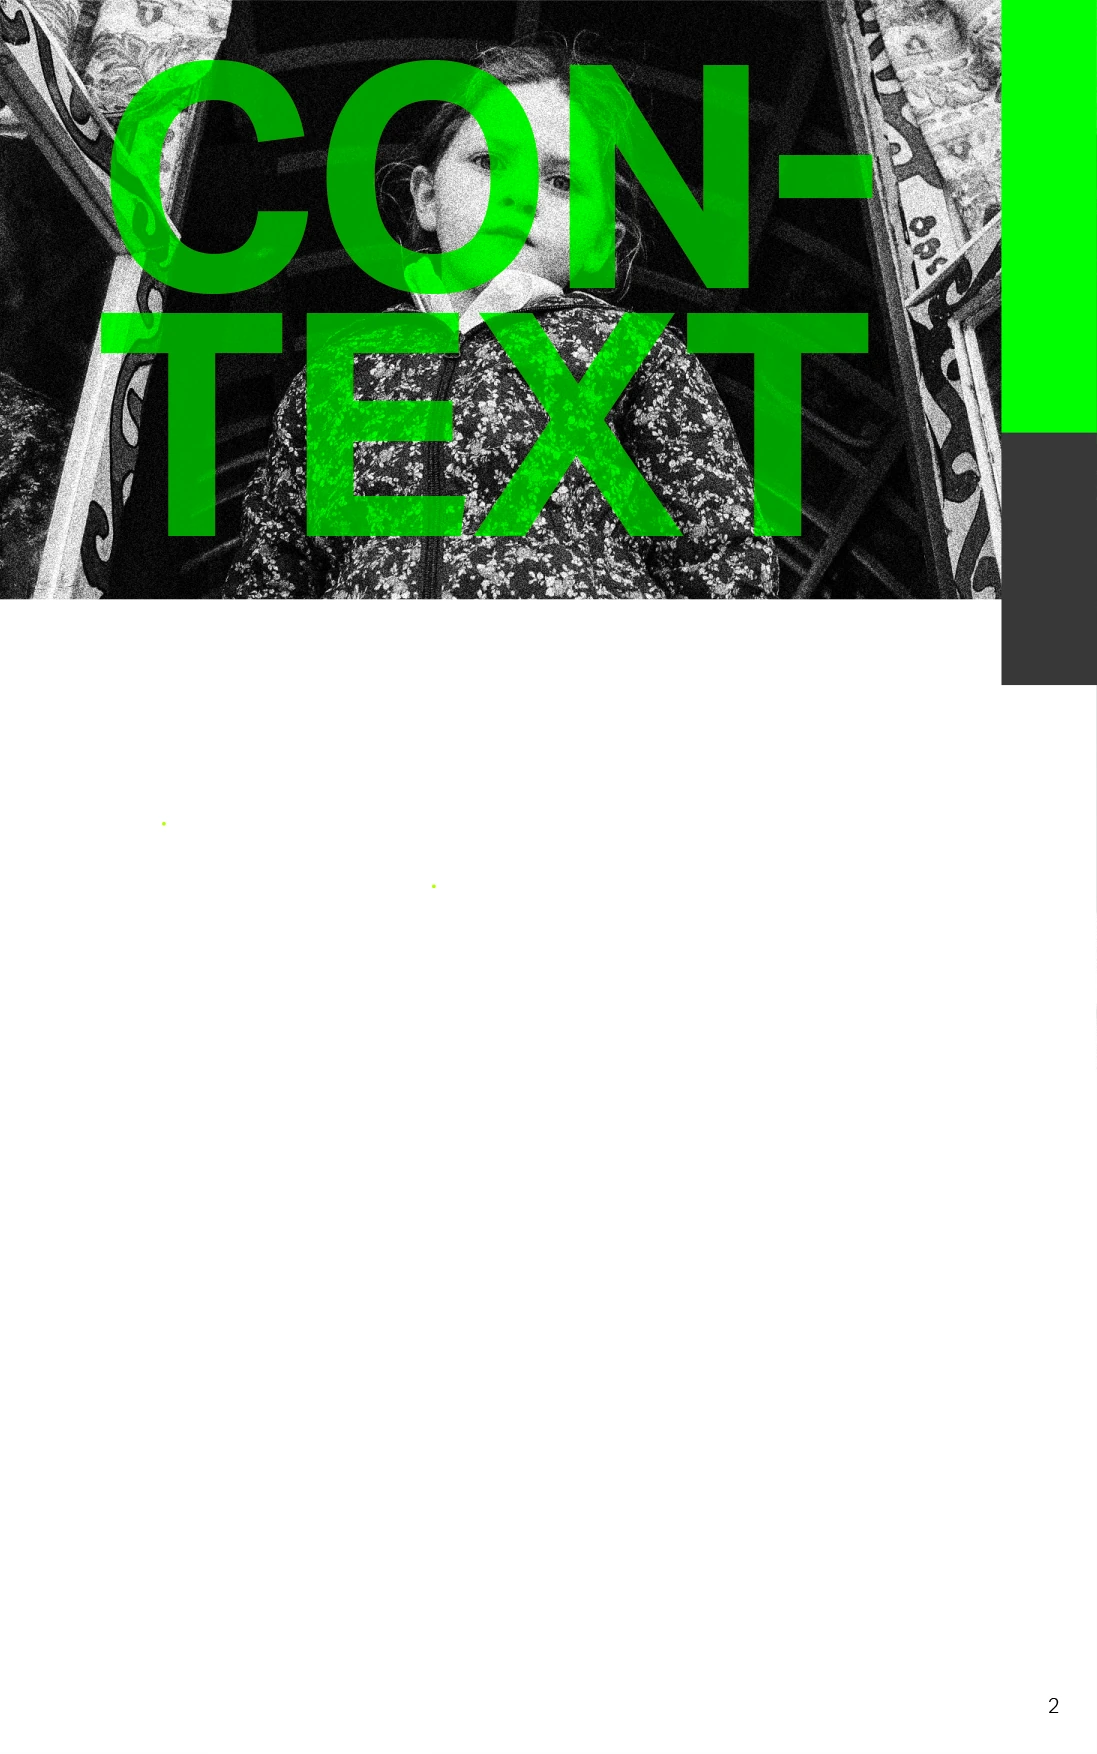
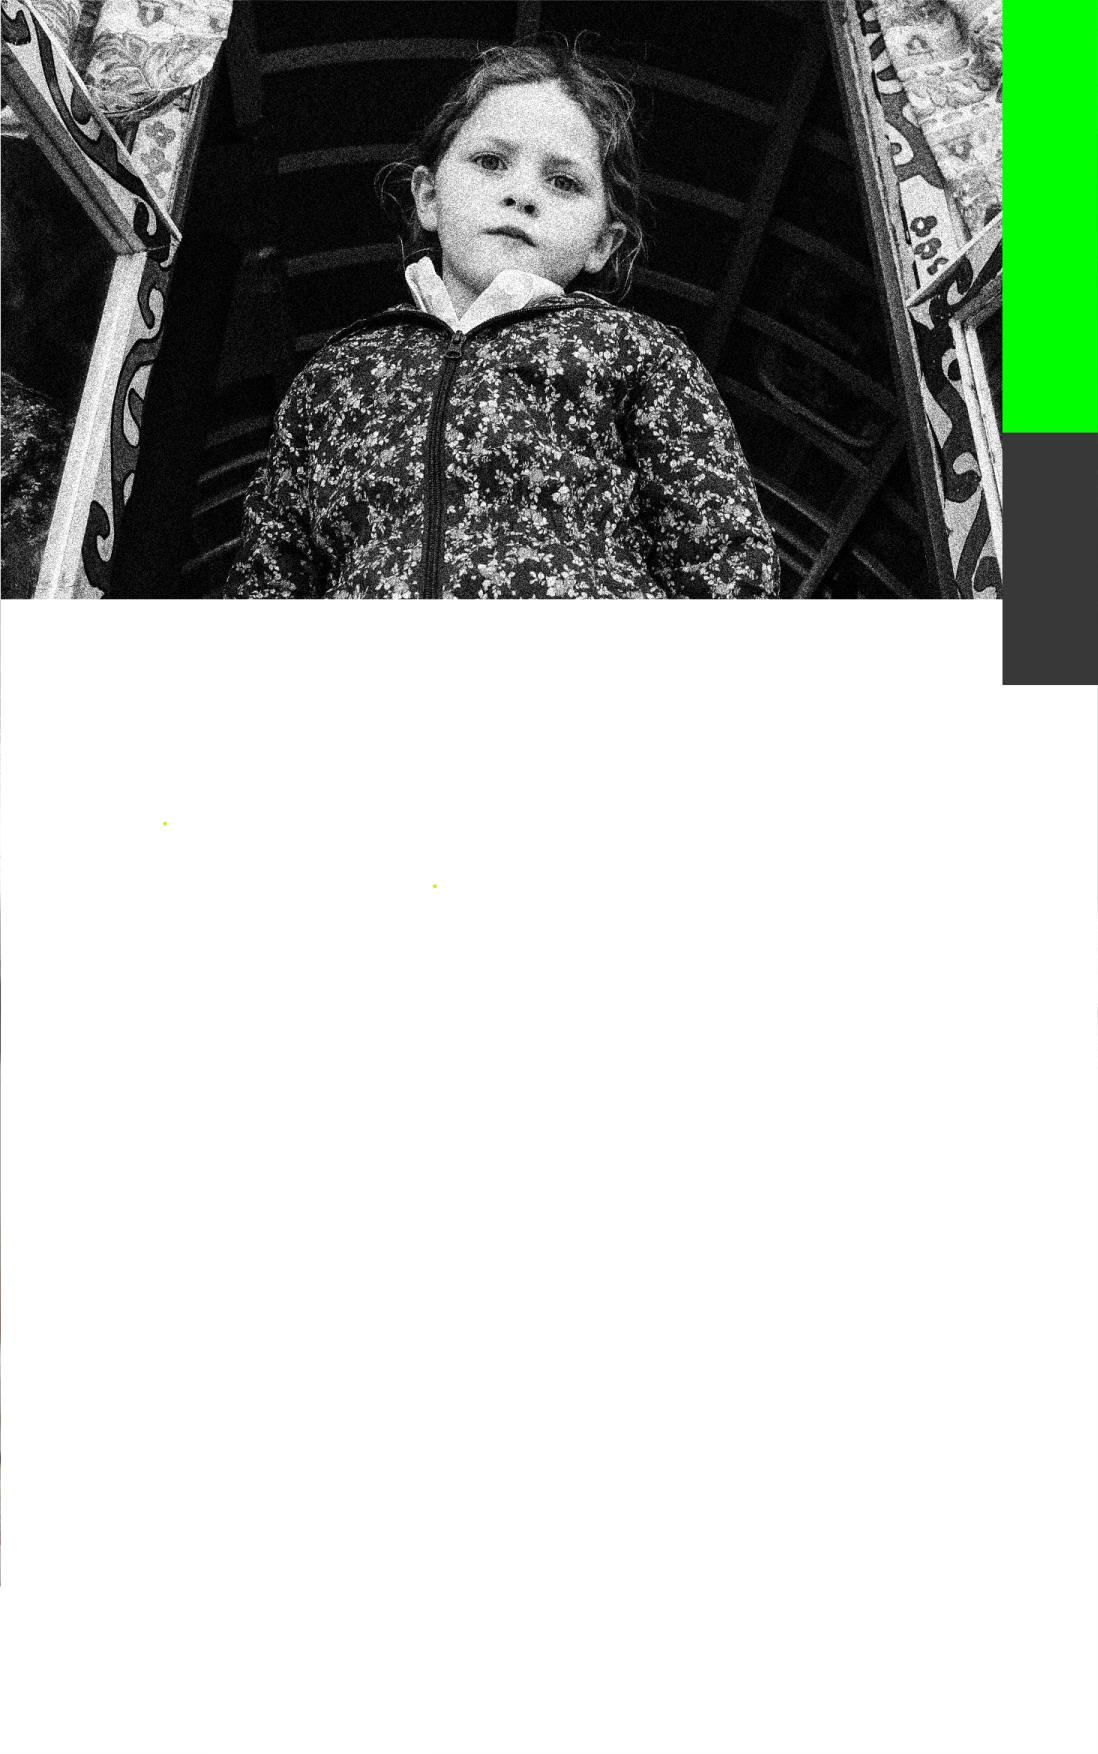
Changed bookmarks order, changed titles in for parents and for teachers, changed text in foreword

Changed region(s): [[0.0, 0.0, 0.8058, 0.3387], [0.7129, 0.0616, 0.8058, 0.1231]]

diff --git a/components/Book.jsx b/components/Book.jsx
@@ -49,11 +49,18 @@ const Book = ({
         category.toLowerCase() === bookmark.toLowerCase()
     );
 
-  const getProperBookmark = (cat) => 
-    bookmarks.filter(
+  const getProperBookmark = (cat) => {
+    const properBookmark = bookmarks.filter(
       ({ fields: { category } }) => 
         category.toLowerCase() === cat.toLowerCase()
-    )[0]?.fields;
+    )[0]?.fields
+    const indexOfProperBookmark = bookmarks.findIndex(({fields}) => fields === properBookmark)
+
+    return {
+      ...properBookmark,
+      index: indexOfProperBookmark
+    }
+  }
     
   return (
     <div
@@ -165,7 +172,7 @@ const Book = ({
                     pageIndex={pageIndex}
                     pageIndexStyle={pageIndexStyle}
                     pagesLength={pages.length}
-                    page={{ id, category }}
+                    page={{ category, heading }}
                     changePage={changePage}
                     changeCustomPage={changeCustomPage}
                     getIndexOfFirstBookmark={getIndexOfFirstBookmark}
@@ -180,7 +187,7 @@ const Book = ({
                     pageIndex={pageIndex}
                     pageIndexStyle={pageIndexStyle}
                     pagesLength={pages.length}
-                    page={{ id, category }}
+                    page={{ category, heading }}
                     changePage={changePage}
                     changeCustomPage={changeCustomPage}
                     getIndexOfFirstBookmark={getIndexOfFirstBookmark}
@@ -195,7 +202,7 @@ const Book = ({
                     pageIndex={pageIndex}
                     pageIndexStyle={pageIndexStyle}
                     pagesLength={pages.length}
-                    page={{ id, category }}
+                    page={{ category, heading }}
                     changePage={changePage}
                     changeCustomPage={changeCustomPage}
                     getIndexOfFirstBookmark={getIndexOfFirstBookmark}

diff --git a/components/ForTeachers.jsx b/components/ForTeachers.jsx
@@ -9,13 +9,14 @@ const ForTeachers = ({
   currentPage,
   pagesLength,
   pageIndexStyle,
-  page: { category },
+  page: { category, heading },
   changePage,
   changeCustomPage,
   getIndexOfFirstBookmark,
   bookmarkInfo,
 }) => {
   const [isAnimationFinished, setIsAnimationFinished] = useState(false);
+  console.log(heading);
 
   useEffect(() => {
     if (pageIndexStyle > currentPage) {
@@ -148,11 +149,10 @@ const ForTeachers = ({
             backgroundImage: 'url("/forewordRightPage.webp")',
           }}
         >
-          <div
-            style={{
-              marginTop: "230px",
-            }}
-          >
+          <div style={{height: '36%'}}>
+            <h2 className={style.contextTitle}>{heading}</h2>
+          </div>
+          <div>
             Lorem ipsum, dolor sit amet consectetur adipisicing elit. Harum, molestiae praesentium! Aut eligendi odit, delectus a repellendus libero accusamus nam in mollitia. Expedita ullam, corrupti illo sapiente, cum ab omnis neque officiis ea a est, eaque voluptatibus fuga explicabo ipsa. Minus cum cumque in rem facere ipsam, blanditiis perspiciatis autem dolor eligendi consequatur voluptas expedita libero, nemo soluta molestiae? Totam, laboriosam reprehenderit. Animi mollitia error quis tempore tempora eos, laborum vitae minus modi aliquam temporibus sit fuga officia non dolorem ratione ducimus ad ut dolore odio rerum inventore perferendis porro obcaecati. At dicta numquam, alias enim minus perferendis illo placeat.
           </div>
           {pageIndex !== pagesLength - 1 && (

diff --git a/components/ContextPage.jsx b/components/ContextPage.jsx
@@ -9,7 +9,7 @@ const ContextPage = ({
   currentPage,
   pagesLength,
   pageIndexStyle,
-  page: { category },
+  page: { category, heading },
   changePage,
   changeCustomPage,
   getIndexOfFirstBookmark,
@@ -147,13 +147,13 @@ const ContextPage = ({
           })}
           style={{
             backgroundImage: 'url("/forewordRightPage.webp")',
+            display: "block"
           }}
         >
-          <div
-            style={{
-              marginTop: "230px",
-            }}
-          >
+          <div style={{height: '36%'}}>
+            <h2 className={style.contextTitle}>{heading}</h2>
+          </div>
+          <div>
             Lorem ipsum, dolor sit amet consectetur adipisicing elit. Harum, molestiae praesentium! Aut eligendi odit, delectus a repellendus libero accusamus nam in mollitia. Expedita ullam, corrupti illo sapiente, cum ab omnis neque officiis ea a est, eaque voluptatibus fuga explicabo ipsa. Minus cum cumque in rem facere ipsam, blanditiis perspiciatis autem dolor eligendi consequatur voluptas expedita libero, nemo soluta molestiae? Totam, laboriosam reprehenderit. Animi mollitia error quis tempore tempora eos, laborum vitae minus modi aliquam temporibus sit fuga officia non dolorem ratione ducimus ad ut dolore odio rerum inventore perferendis porro obcaecati. At dicta numquam, alias enim minus perferendis illo placeat.
           </div>
           {pageIndex !== pagesLength - 1 && (

diff --git a/components/ForParents.jsx b/components/ForParents.jsx
@@ -9,7 +9,7 @@ const ForParents = ({
   currentPage,
   pagesLength,
   pageIndexStyle,
-  page: { category },
+  page: { category, heading },
   changePage,
   changeCustomPage,
   getIndexOfFirstBookmark,
@@ -149,11 +149,10 @@ const ForParents = ({
             backgroundImage: 'url("/forewordRightPage.webp")',
           }}
         >
-          <div
-            style={{
-              marginTop: "230px",
-            }}
-          >
+          <div style={{height: '36%'}}>
+            <h2 className={style.contextTitle}>{heading}</h2>
+          </div>
+          <div>
             Lorem ipsum, dolor sit amet consectetur adipisicing elit. Harum, molestiae praesentium! Aut eligendi odit, delectus a repellendus libero accusamus nam in mollitia. Expedita ullam, corrupti illo sapiente, cum ab omnis neque officiis ea a est, eaque voluptatibus fuga explicabo ipsa. Minus cum cumque in rem facere ipsam, blanditiis perspiciatis autem dolor eligendi consequatur voluptas expedita libero, nemo soluta molestiae? Totam, laboriosam reprehenderit. Animi mollitia error quis tempore tempora eos, laborum vitae minus modi aliquam temporibus sit fuga officia non dolorem ratione ducimus ad ut dolore odio rerum inventore perferendis porro obcaecati. At dicta numquam, alias enim minus perferendis illo placeat.
           </div>
           {pageIndex !== pagesLength - 1 && (

diff --git a/styles/doublePage.module.scss b/styles/doublePage.module.scss
@@ -50,6 +50,8 @@
         flex-direction: column;
         justify-content: space-between;
         align-items: flex-start;
+        
+        padding-left: 20px;
         height: 78%;
       }
     }
@@ -77,9 +79,8 @@
       .video {
         position: absolute;
         color: white;
-        // width: 140%;
       
-        // width: 100%;
+        width: 100%;
         cursor: pointer;
       }
     }
@@ -109,8 +110,8 @@
       }
 
       .forewordText {
-        font-size: 12px;
-        line-height: 1rem;
+        font-size: 2.4vh;
+        line-height: 2.2vh;
       }
 
       .intoPageRightContent {
@@ -135,6 +136,13 @@
           height: 20%;
           width: 100%;
         }
+      }
+
+      .contextTitle {
+        color: greenyellow;
+        font-size: 11vh;
+        line-height: 10vh;
+        word-break: break-all;
       }
     }
 

diff --git a/pages/index.js b/pages/index.js
@@ -1,7 +1,6 @@
 import Book from "../components/Book.jsx";
 import style from "../styles/index.module.scss";
 import { createClient } from "contentful";
-import Link from "next/link";
 import { useEffect, useRef, useState } from "react";
 import Mobile from "../components/mobile/Mobile";
 import book from "../components/Book.jsx";
@@ -60,7 +59,7 @@ export default function Index({ bookData }) {
     e.preventDefault();
     setChangedPage(false);
     const indexOfFirstBookmarkItem = pages.findIndex(
-      ({ fields: { category, id } }) =>
+      ({ fields: { category, id } }, index) =>
         (typeof bookmark === "string" &&
           category &&
           bookmark &&

diff --git a/components/Bookmark.jsx b/components/Bookmark.jsx
@@ -16,7 +16,7 @@ const Bookmark = ({ changeCustomPage, category, top, info }) => {
     <div
       key={category}
       style={{
-        top: top,
+        top: (info.index * 10 + 10) + "%",
         backgroundColor: info?.color,
       }}
       className={classNames(style.bookmark)}

diff --git a/components/Foreword.jsx b/components/Foreword.jsx
@@ -89,7 +89,7 @@ const Foreword = ({
         >
           <div
             style={{
-              marginTop: "230px",
+              marginTop: "60%",
             }}
           >
             {Object.entries(text?.content).map((content) => (

diff --git a/styles/curl.module.scss b/styles/curl.module.scss
@@ -39,7 +39,7 @@
   position: absolute;
   right: 0;
   bottom: 2%;
-  height: 30%;
+  height: 20%;
   width: 20%;
   min-width: 40px;
 }
